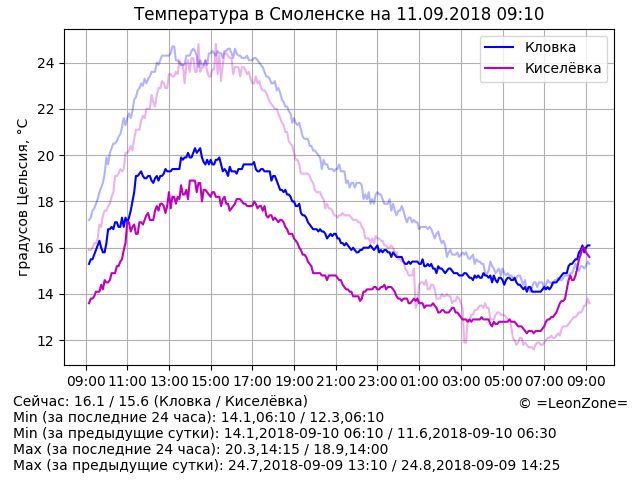
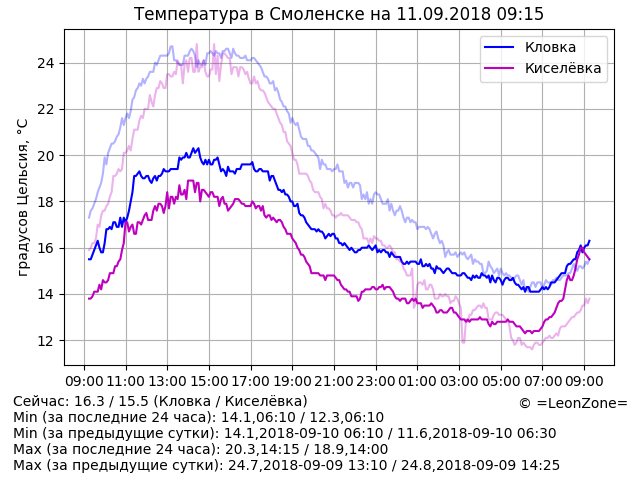
Update data

diff --git a/index.html b/index.html
@@ -14,7 +14,7 @@
 	<p align="center"><script>document.write("<img src=\"graph.png?rnd="+Math.random()+"\" alt=\"Температура в Смоленске\" align=\"middle\" width=\"640\" height=\"480\" />")</script>
 	<p hidden="true">
 <!-- textinfo -->
-Сейчас: 16.1 / 15.6 (Кловка / Киселёвка)
+Сейчас: 16.3 / 15.5 (Кловка / Киселёвка)
 Min (за последние 24 часа): 14.1,06:10 / 12.3,06:10
 Min (за предыдущие сутки): 14.1,2018-09-10 06:10 / 11.6,2018-09-10 06:30
 Max (за последние 24 часа): 20.3,14:15 / 18.9,14:00
